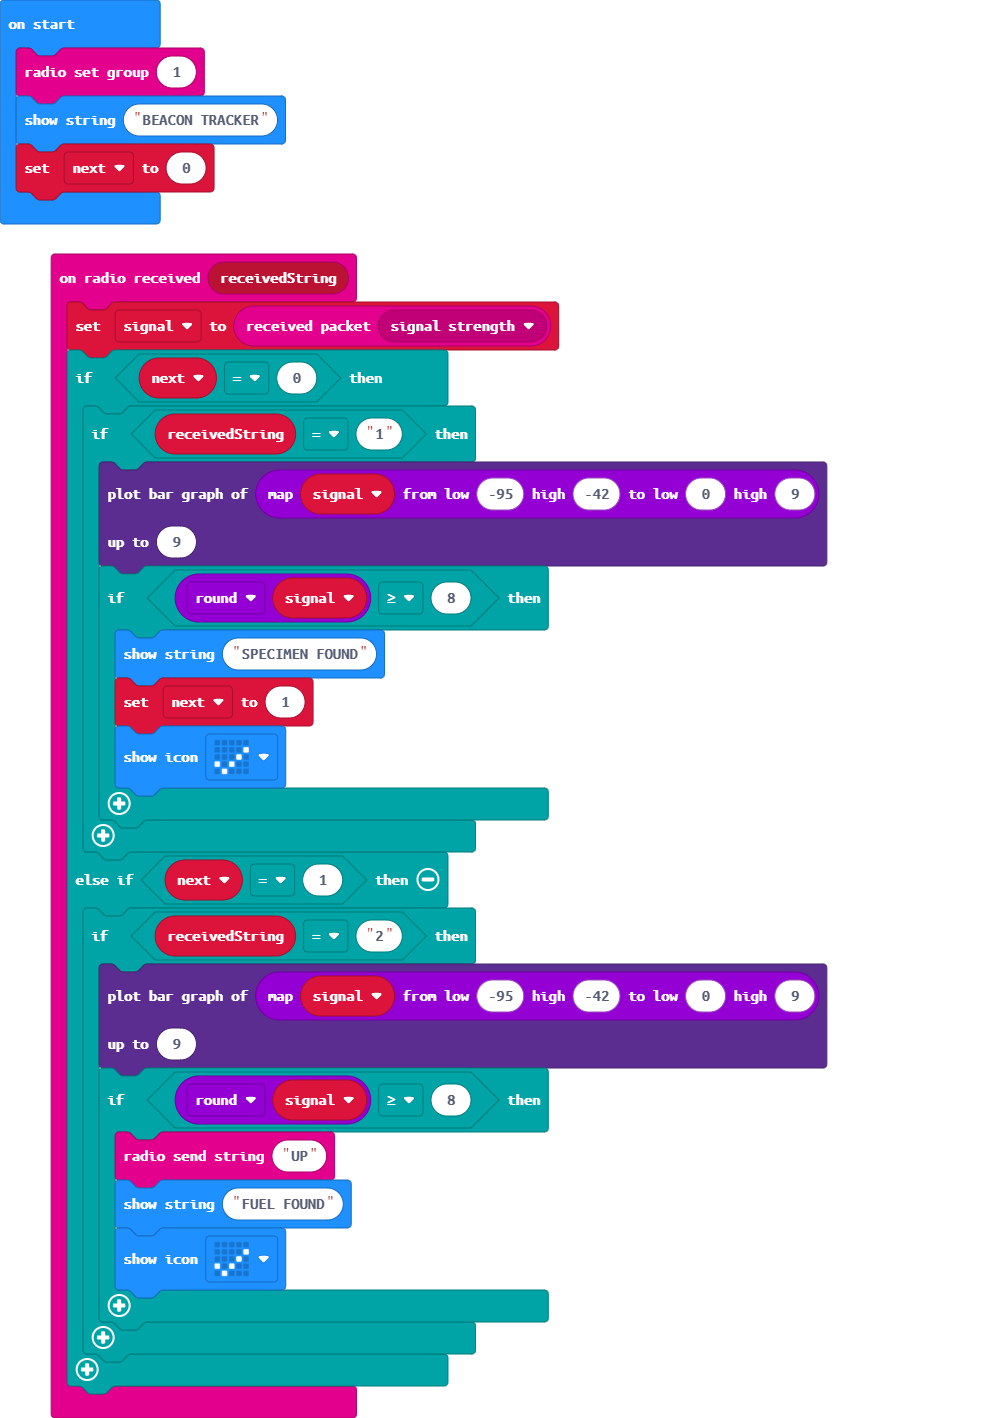
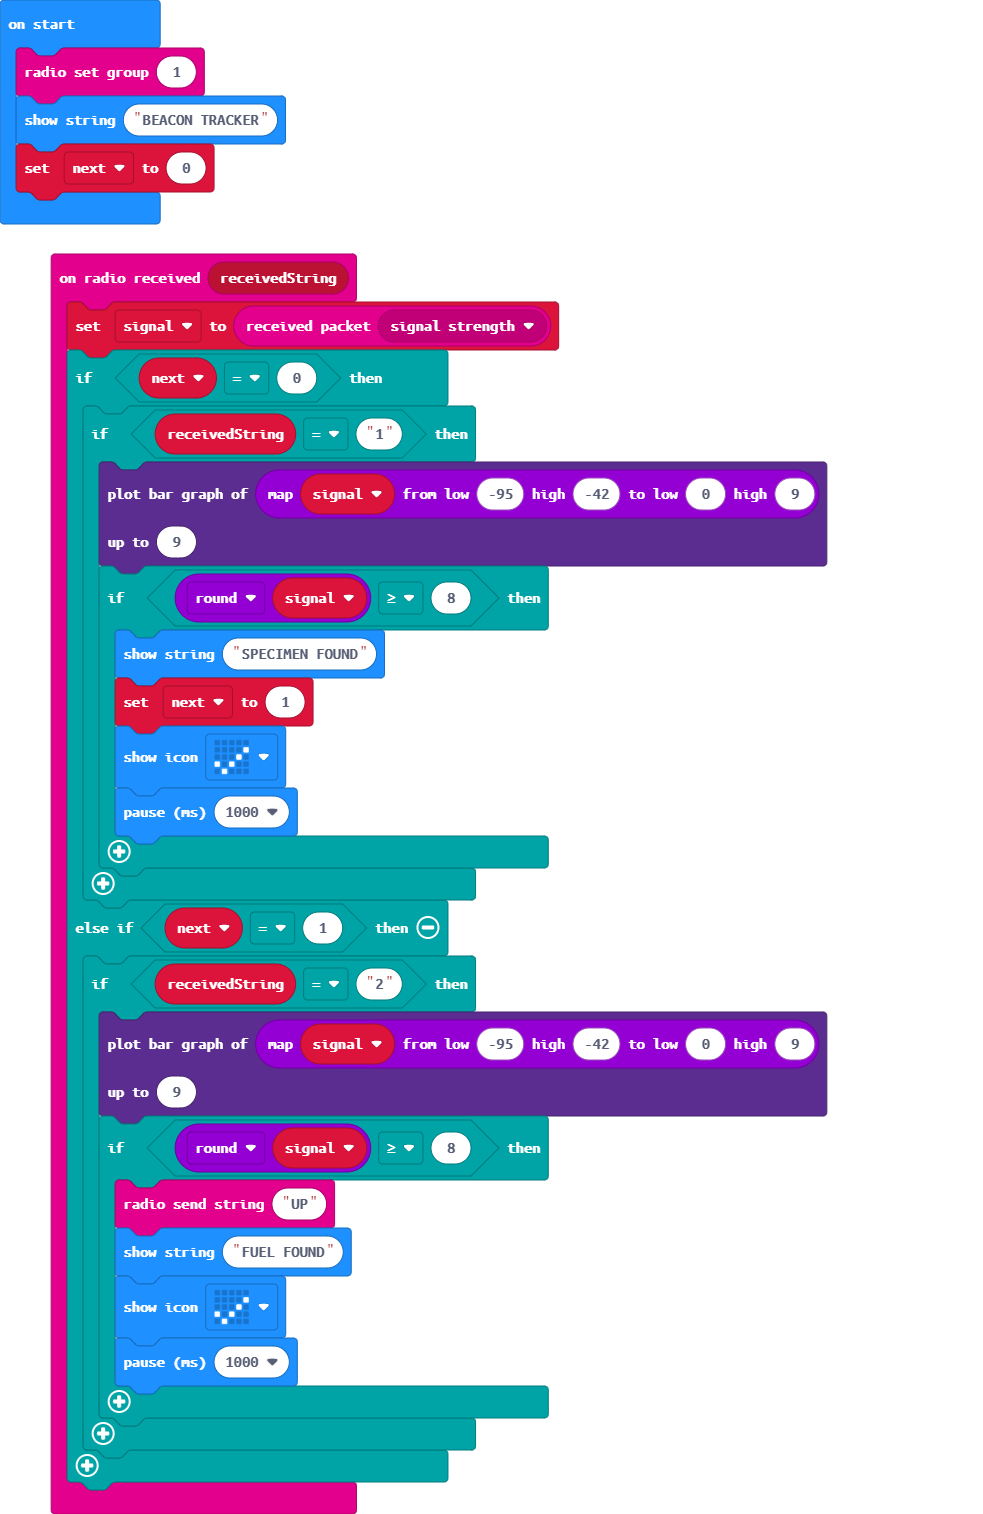
add delay

Changed region(s): [[0.0, 0.0, 0.8545, 0.9929]]

diff --git a/main.ts b/main.ts
@@ -10,6 +10,7 @@ radio.onReceivedString(function (receivedString) {
                 basic.showString("SPECIMEN FOUND")
                 next = 1
                 basic.showIcon(IconNames.Yes)
+                basic.pause(1000)
             }
         }
     } else if (next == 1) {
@@ -22,6 +23,7 @@ radio.onReceivedString(function (receivedString) {
                 radio.sendString("UP")
                 basic.showString("FUEL FOUND")
                 basic.showIcon(IconNames.Yes)
+                basic.pause(1000)
             }
         }
     }
